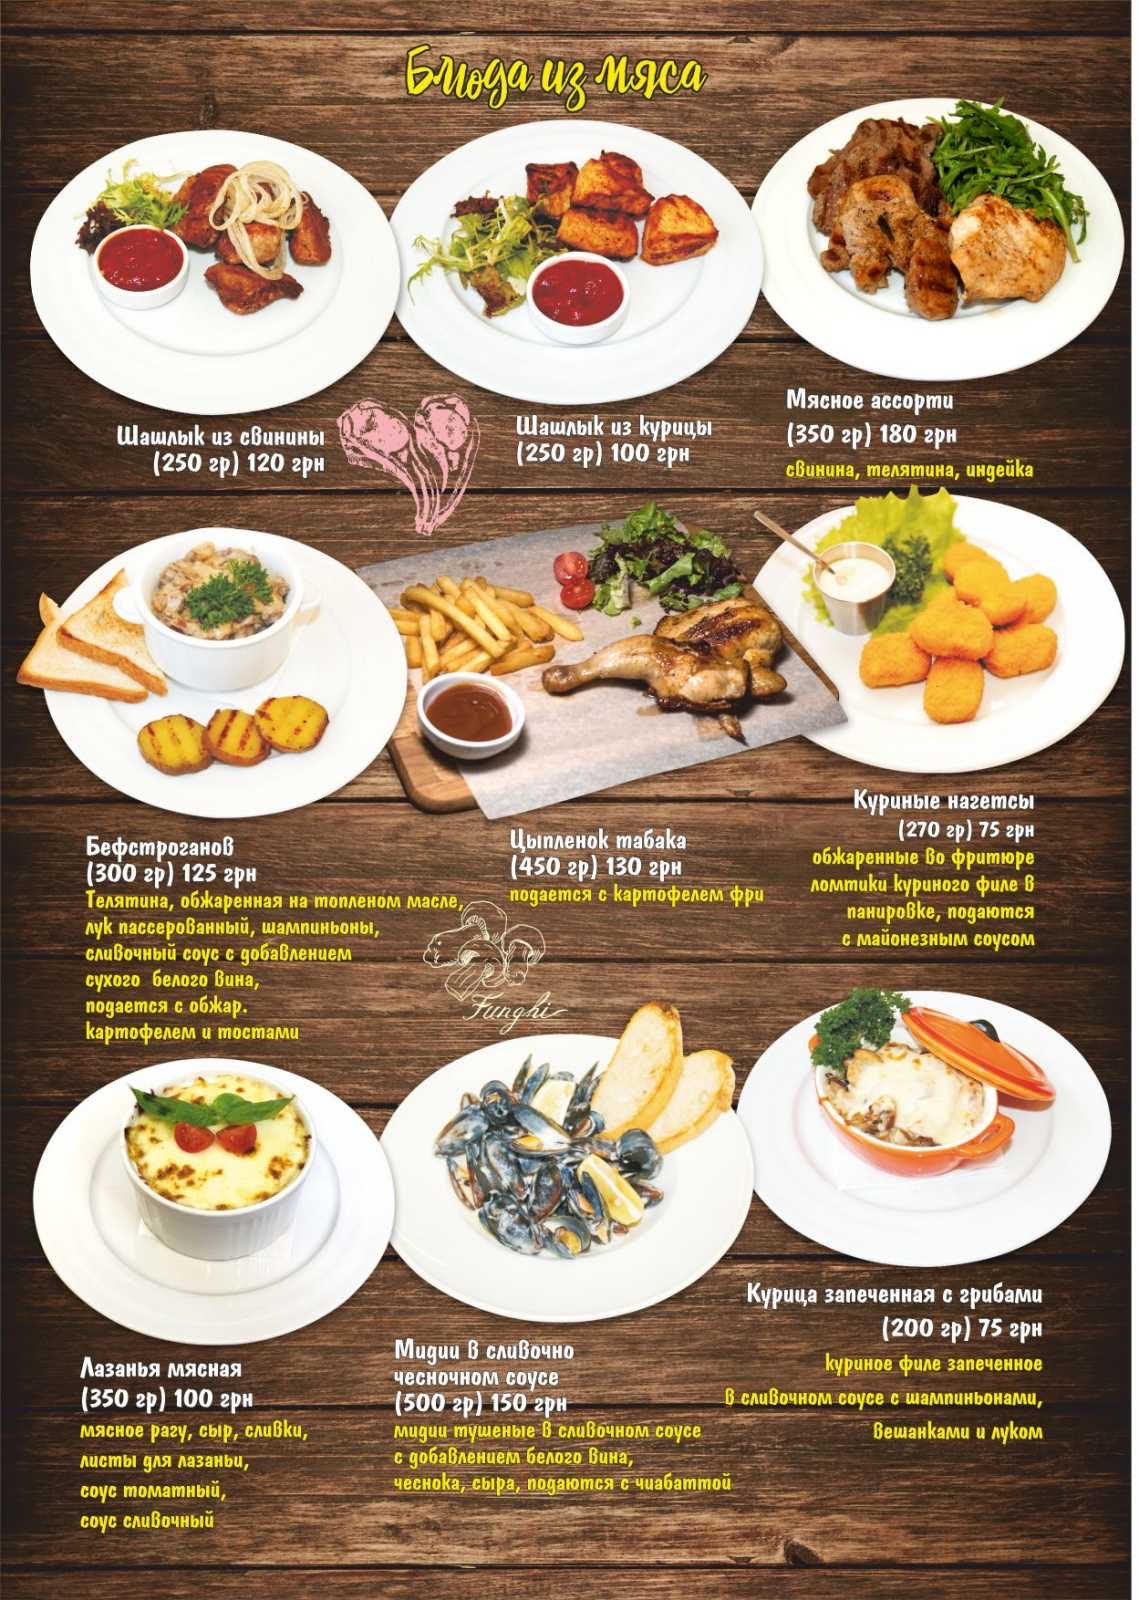
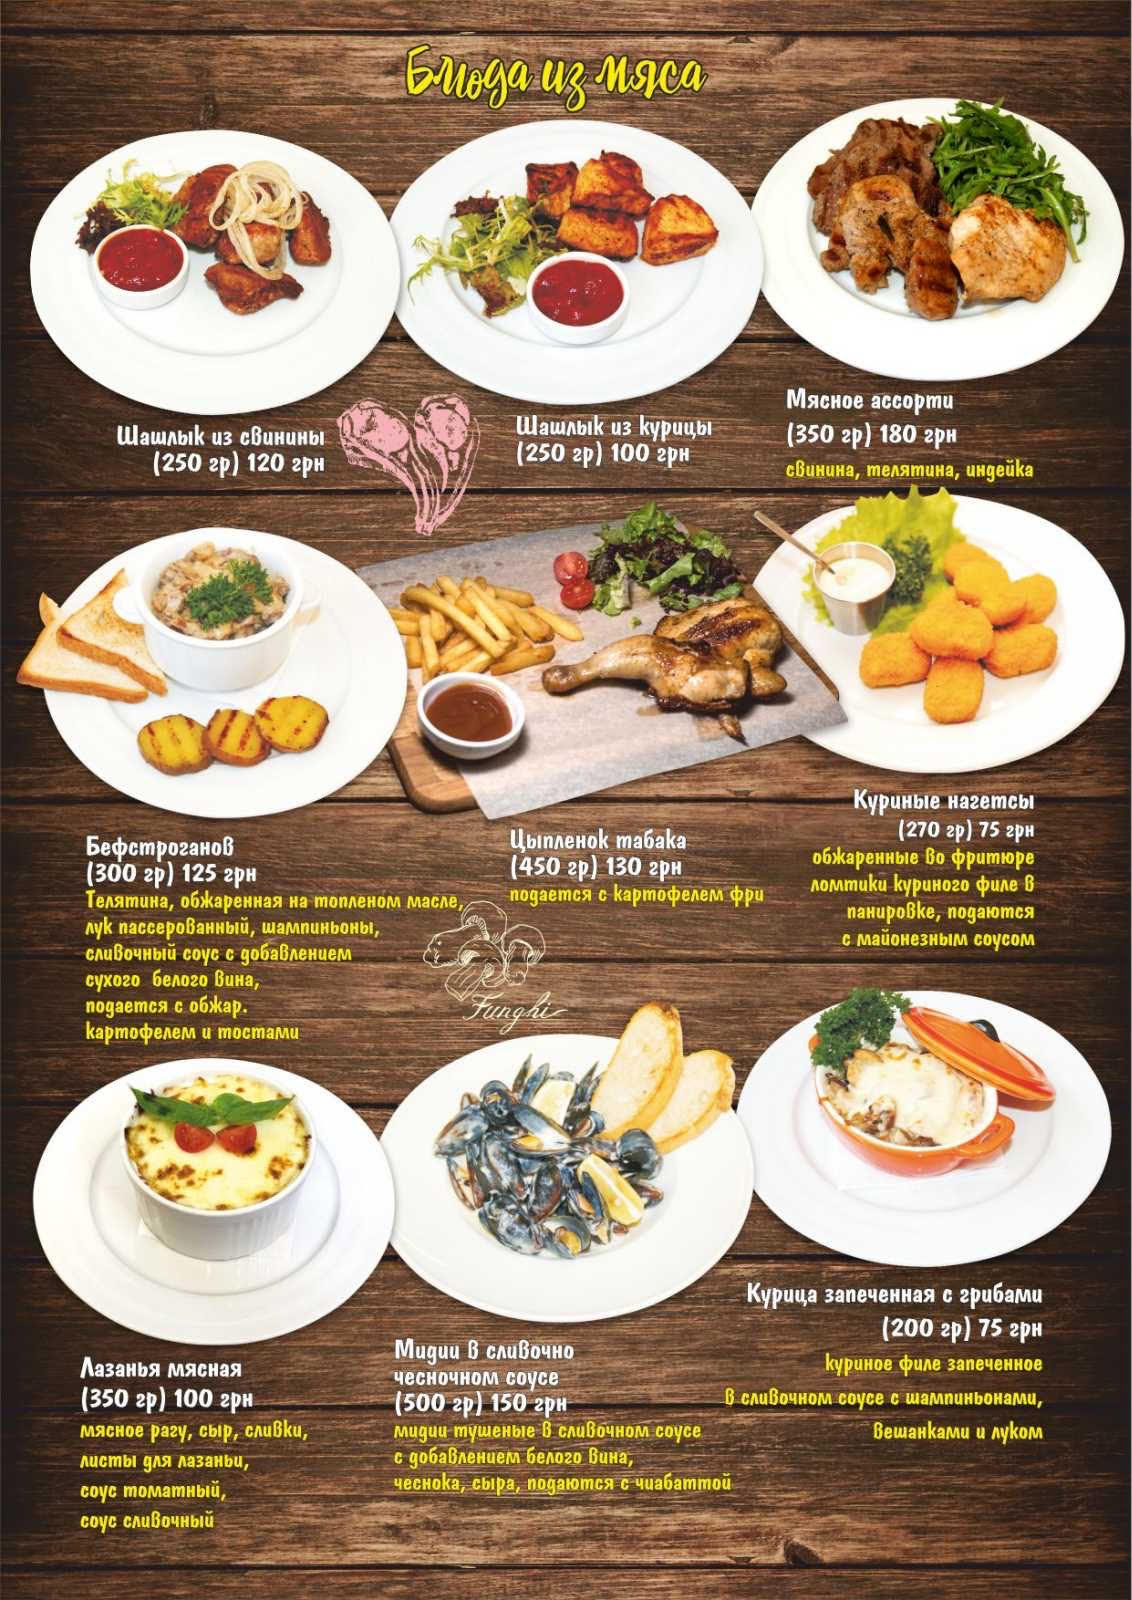
pizza-city photo editing

diff --git a/resources/views/pages/pizza-city-2.blade.php b/resources/views/pages/pizza-city-2.blade.php
@@ -33,7 +33,7 @@
 
             <div class="body_restaurant_pizza_city_2">
                 <div class="pizza_city_2_restaurant_img">
-                    <img src="images/pizza_city/meat-dishes.jpg" class="pizza_city_restaurant_image">
+                    <img src="images/pizza_city/meat-dishes.png" class="pizza_city_restaurant_image">
                 </div>
             </div>
 
@@ -45,7 +45,7 @@
 
             <div class="body_restaurant_pizza_city_2">
                 <div class="pizza_city_2_restaurant_img">
-                    <img src="images/pizza_city/salad2.jpg" class="pizza_city_restaurant_image">
+                    <img src="images/pizza_city/salad2.png" class="pizza_city_restaurant_image">
                 </div>
             </div>
 
@@ -57,7 +57,7 @@
 
             <div class="body_restaurant_pizza_city_2">
                 <div class="pizza_city_2_restaurant_img">
-                    <img src="images/pizza_city/first-dishes.jpg" class="pizza_city_restaurant_image">
+                    <img src="images/pizza_city/first-dishes.png" class="pizza_city_restaurant_image">
                 </div>
             </div>
 
@@ -75,7 +75,7 @@
 
             <div class="body_restaurant_pizza_city_2">
                 <div class="pizza_city_2_restaurant_img">
-                    <img src="images/pizza_city/vareniki.jpg" class="pizza_city_restaurant_image">
+                    <img src="images/pizza_city/vareniki.png" class="pizza_city_restaurant_image">
                 </div>
             </div>
 

diff --git a/resources/views/pages/pizza-city.blade.php b/resources/views/pages/pizza-city.blade.php
@@ -33,7 +33,7 @@
 
             <div class="body_restaurant_pizza_city">
                 <div class="pizza_city_restaurant_img">
-                    <img src="images/pizza_city/meat-dishes.jpg" class="pizza_city_restaurant_image">
+                    <img src="images/pizza_city/meat-dishes.png" class="pizza_city_restaurant_image">
                 </div>
             </div>
 
@@ -45,7 +45,7 @@
 
             <div class="body_restaurant_pizza_city">
                 <div class="pizza_city_restaurant_img">
-                    <img src="images/pizza_city/salad2.jpg" class="pizza_city_restaurant_image">
+                    <img src="images/pizza_city/salad2.png" class="pizza_city_restaurant_image">
                 </div>
             </div>
 
@@ -57,7 +57,7 @@
 
             <div class="body_restaurant_pizza_city">
                 <div class="pizza_city_restaurant_img">
-                    <img src="images/pizza_city/first-dishes.jpg" class="pizza_city_restaurant_image">
+                    <img src="images/pizza_city/first-dishes.png" class="pizza_city_restaurant_image">
                 </div>
             </div>
 
@@ -75,7 +75,7 @@
 
             <div class="body_restaurant_pizza_city">
                 <div class="pizza_city_restaurant_img">
-                    <img src="images/pizza_city/vareniki.jpg" class="pizza_city_restaurant_image">
+                    <img src="images/pizza_city/vareniki.png" class="pizza_city_restaurant_image">
                 </div>
             </div>
 
